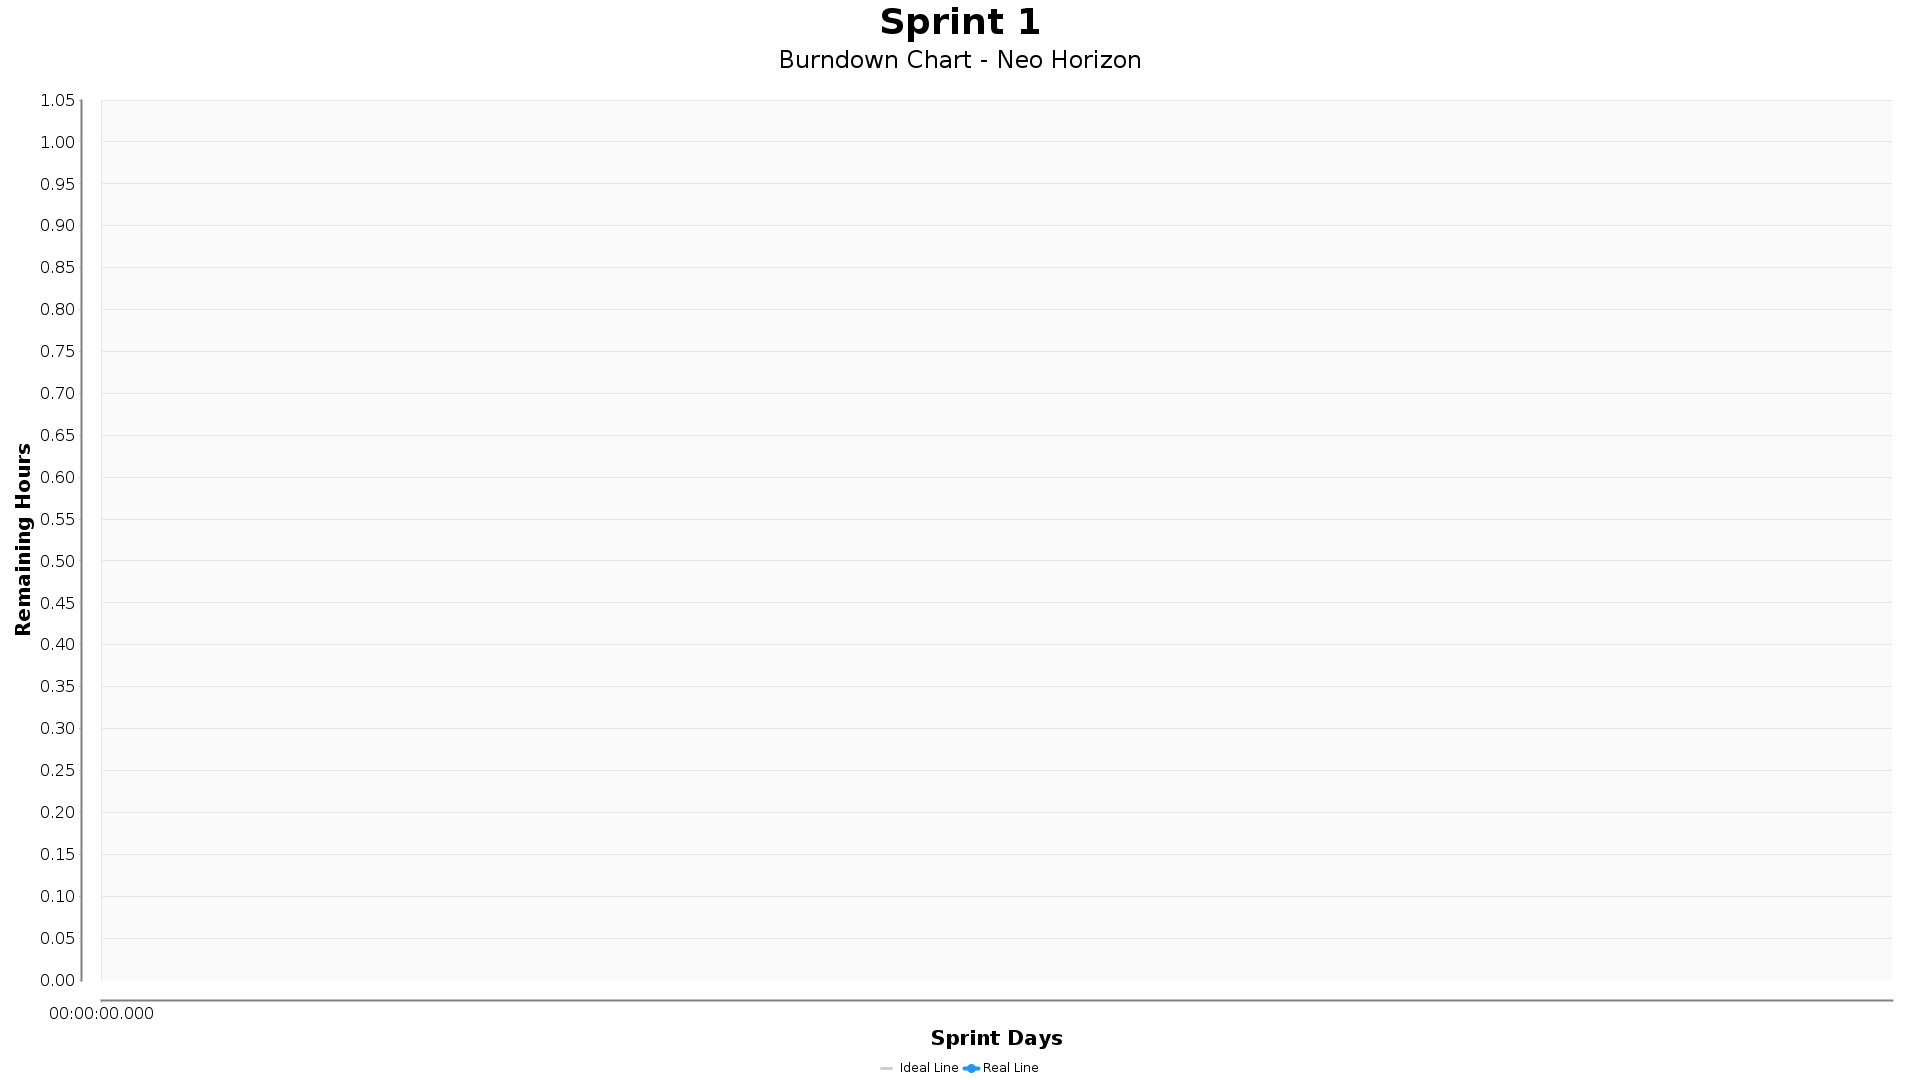
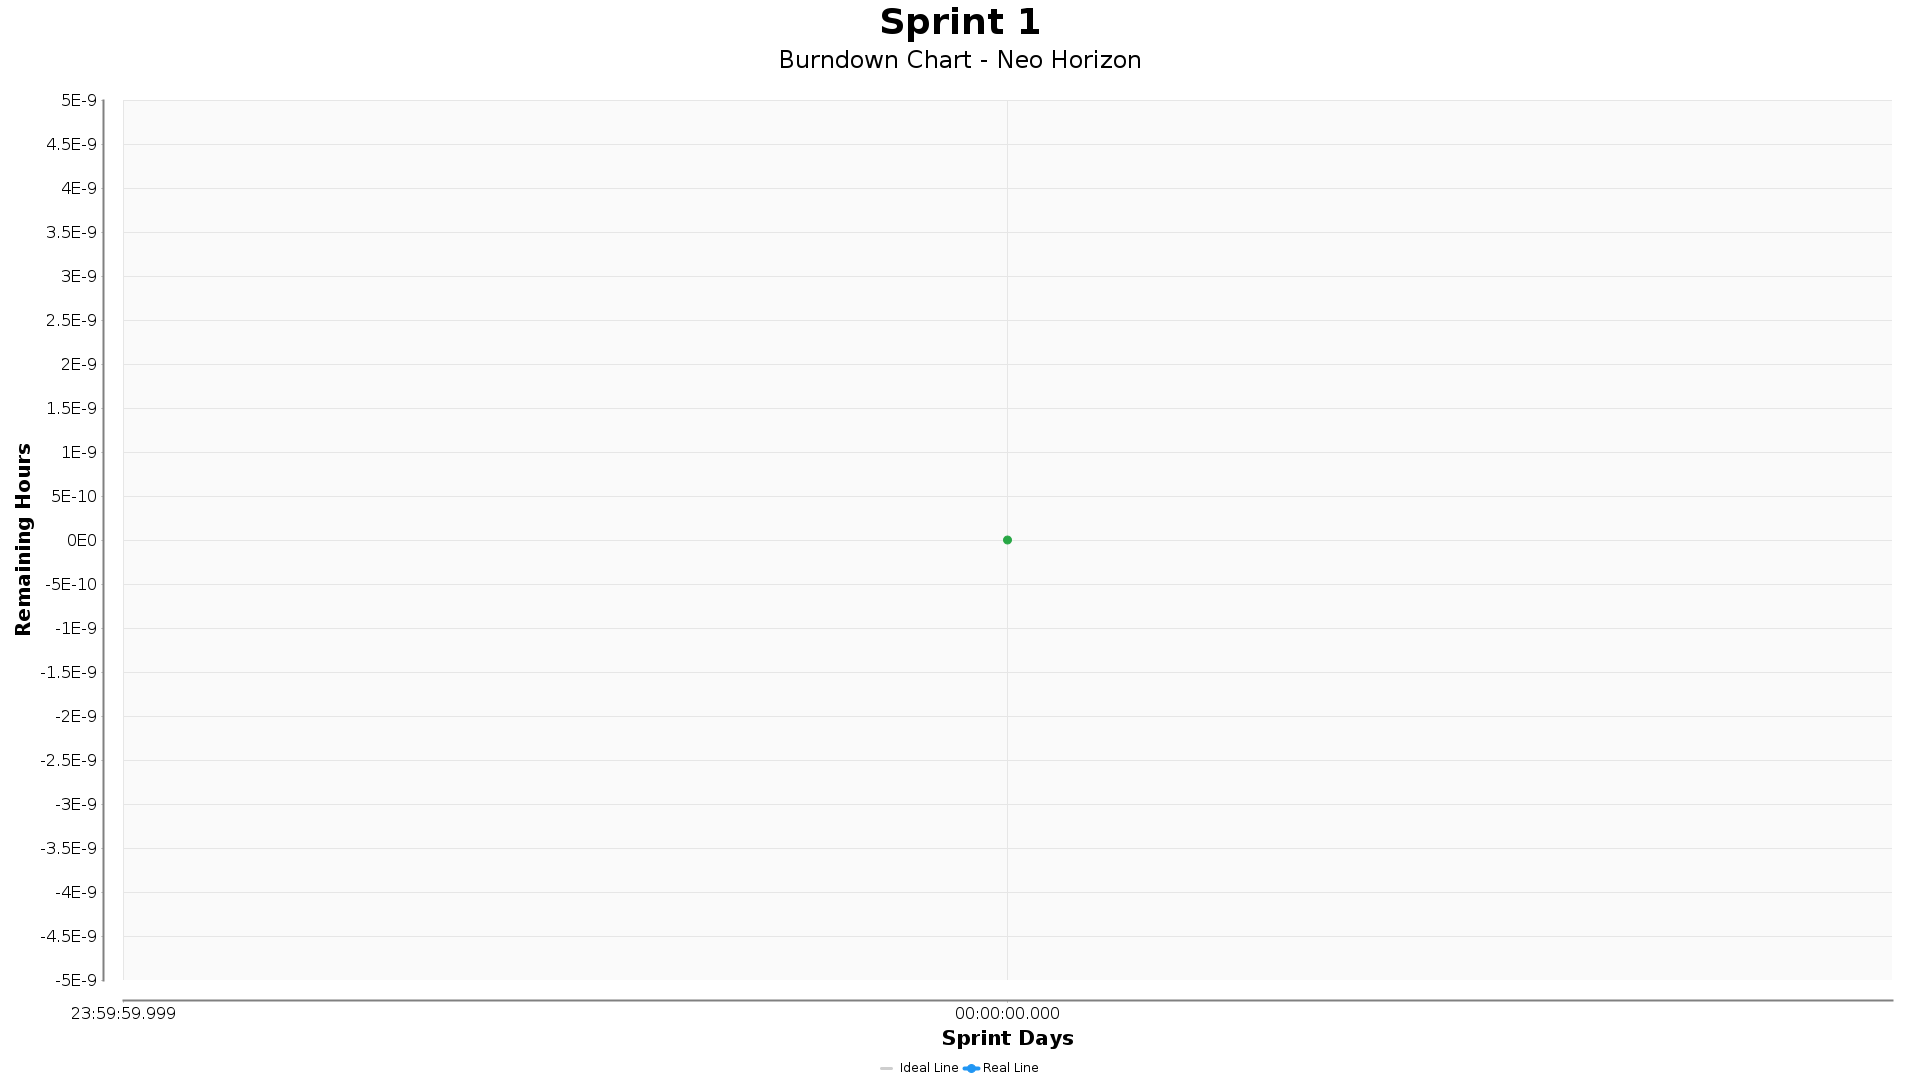
chore: atualizar gráfico de burndown

Changed region(s): [[0.0312, 0.0917, 0.0938, 0.9472], [0.4688, 0.9167, 0.5625, 0.9778]]

diff --git a/README.md b/README.md
@@ -160,7 +160,7 @@ O objetivo do projeto é desenvolver uma plataforma que realize o tratamento e a
 
 ## Evolução do Projeto (Burndown)<a id="burndown"></a>
 
-<img src="burndown/src/main/resources/static/burndown.png?v=7a8c8762b5b567828a98bf7199a7b6b91fc182bc">
+<img src="burndown/src/main/resources/static/burndown.png?v=af9eccc835d2b8b0253585fec00cd83069711f34">
 
 </br>
 
